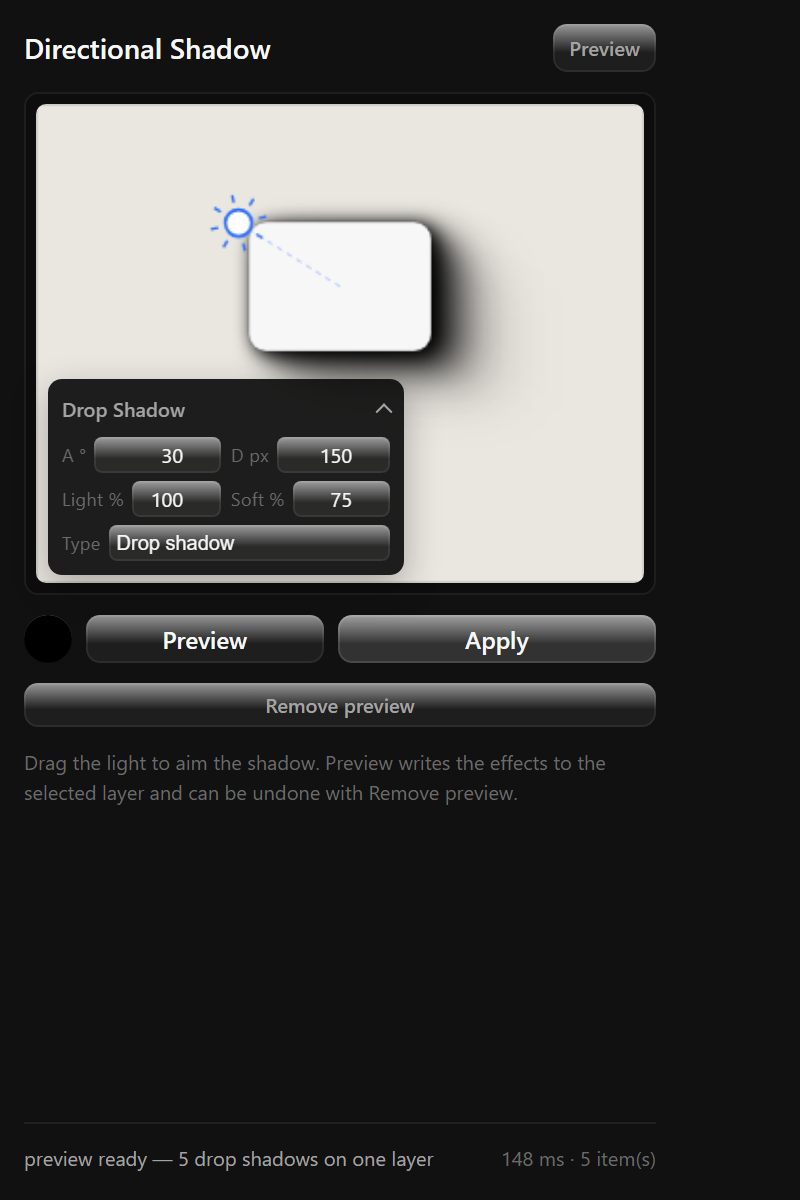
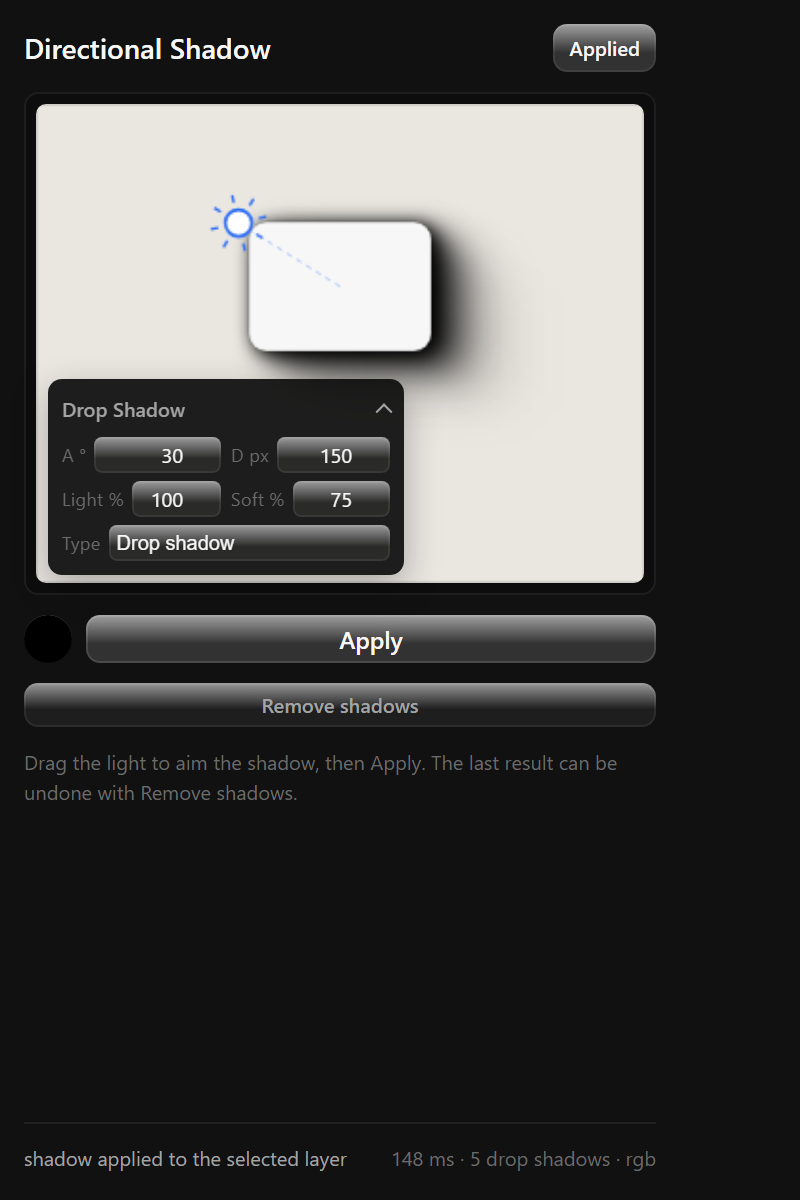
feat: single Apply action, Remove shadows restores the snapshot

diff --git a/plugin/app.js b/plugin/app.js
@@ -17,7 +17,6 @@ const el = {
   kind: document.getElementById("kind"),
   darkness: document.getElementById("darkness"),
   colour: document.getElementById("colour"),
-  preview: document.getElementById("preview"),
   apply: document.getElementById("apply"),
   removePreview: document.getElementById("removePreview"),
   hint: document.getElementById("hint"),
@@ -68,7 +67,6 @@ function applyParamsToUi(params) {
 
 function setBusy(value) {
   busy = value;
-  el.preview.disabled = value;
   el.apply.disabled = value;
   el.removePreview.disabled = value;
 }
@@ -282,40 +280,15 @@ async function build() {
   return result;
 }
 
-async function runPreview() {
-  if (busy) return;
-  setBusy(true);
-  badge("Working…", "busy");
-  try {
-    lastParams = readParams();
-    await dropPreview();
-    setStatus("adding " + Shadow.STEPS + " drop shadows…");
-    await build();
-    badge("Preview", "busy");
-    setStatus("preview on the selected layer — Apply keeps it, Remove preview undoes it");
-  } catch (error) {
-    badge("Failed", "danger");
-    setStatus(errText(error));
-  } finally {
-    setBusy(false);
-  }
-}
-
 async function runApply() {
   if (busy) return;
   setBusy(true);
   badge("Working…", "busy");
   try {
     lastParams = readParams();
-    if (preview) {
-      preview = null; // keep what is already on the layer, stop offering undo
-      markPreview();
-    } else {
-      setStatus("adding " + Shadow.STEPS + " drop shadows…");
-      await build();
-      preview = null;
-      markPreview();
-    }
+    await dropPreview(); // a second Apply replaces the previous result instead of stacking
+    setStatus("adding " + Shadow.STEPS + " shadows…");
+    await build();
     await api.settings.set({ shadow: lastParams }).catch(() => {});
     badge("Applied", "ok");
     setStatus("shadow applied to the selected layer");
@@ -365,7 +338,6 @@ function wire() {
     input.addEventListener("input", () => scheduleDraw());
   }
   el.kind.addEventListener("change", () => scheduleDraw());
-  el.preview.addEventListener("click", () => void runPreview());
   el.apply.addEventListener("click", () => void runApply());
   el.removePreview.addEventListener("click", () => void runRemovePreview());
 }

diff --git a/plugin/index.html b/plugin/index.html
@@ -54,15 +54,15 @@
         <label class="swatch" title="Shadow colour">
           <input id="colour" type="color" value="#000000" />
         </label>
-        <button id="preview" class="button" type="button">Preview</button>
         <button id="apply" class="button primary" type="button">Apply</button>
       </div>
       <div class="actions">
-        <button id="removePreview" class="button quiet" type="button" hidden>Remove preview</button>
+        <button id="removePreview" class="button quiet" type="button" hidden>Remove shadows</button>
       </div>
 
       <p id="hint" class="hint">
-        Drag the light to aim the shadow. Preview writes the effects to the selected layer and can be undone with Remove preview.
+        Drag the light to aim the shadow, then Apply. The last result can be undone with Remove
+        shadows.
       </p>
 
       <footer class="panel-footer">

diff --git a/README.md b/README.md
@@ -22,11 +22,13 @@ A paper stage with a draggable **light handle** (sun with rays) and a floating *
 | `Light %` | 1–100 | 100 | Scales every layer's opacity (Figma's Brightness) |
 | `Soft %` | 1–100 | 75 | Scales the blur of every step |
 | `Type` | Drop shadow / Inner shadow | Drop shadow | Which layer style to write |
+| **Apply** | button | — | Writes the five shadows to the selected layer |
 
 Drag the sun to aim: the shadow falls on the **opposite** side, and an `angle° · distance px` chip
-follows the pointer. The bottom bar holds the colour swatch, **Preview** and **Apply**.
+follows the pointer. The bottom bar holds the colour swatch and **Apply**.
 
-Nothing is written to the document until Preview or Apply is pressed.
+Nothing is written to the document until Apply is pressed; **Remove shadows** restores the styles
+from before the last Apply. A second Apply replaces the previous result instead of stacking.
 
 ## Five fixed steps
 
@@ -95,6 +97,12 @@ styles snapshot/restore, and the single-write pipeline. A Preview sends **4 oper
 (`documents.active` ×2, `effect.describe`, `layer.effects.set`).
 
 ## Changelog
+
+### 0.13.1
+
+- **Preview removed.** With the styles written in a single call, Apply and Preview did the same work;
+  there is now one **Apply** button, and **Remove shadows** restores the snapshot taken before it.
+  Applying again replaces the previous result instead of stacking shadows.
 
 ### 0.13.0
 
